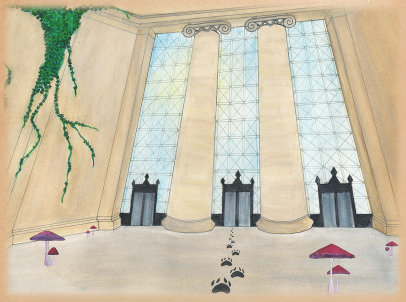
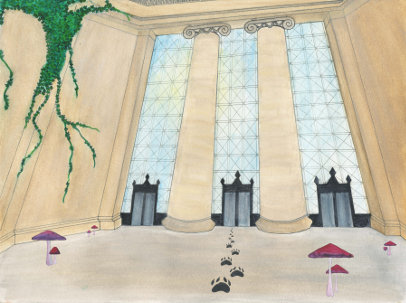
Border around image in book, rather than fade - I guess people like borders

diff --git a/hunt_data/story.css b/hunt_data/story.css
@@ -48,6 +48,11 @@ body {
     font-size: 50px;
 }
 
+#mh-image img {
+    border: 2px solid #222;
+    margin: 3px;
+}
+
 #mh-controls {
     position: relative;
     padding-bottom: 5px;
